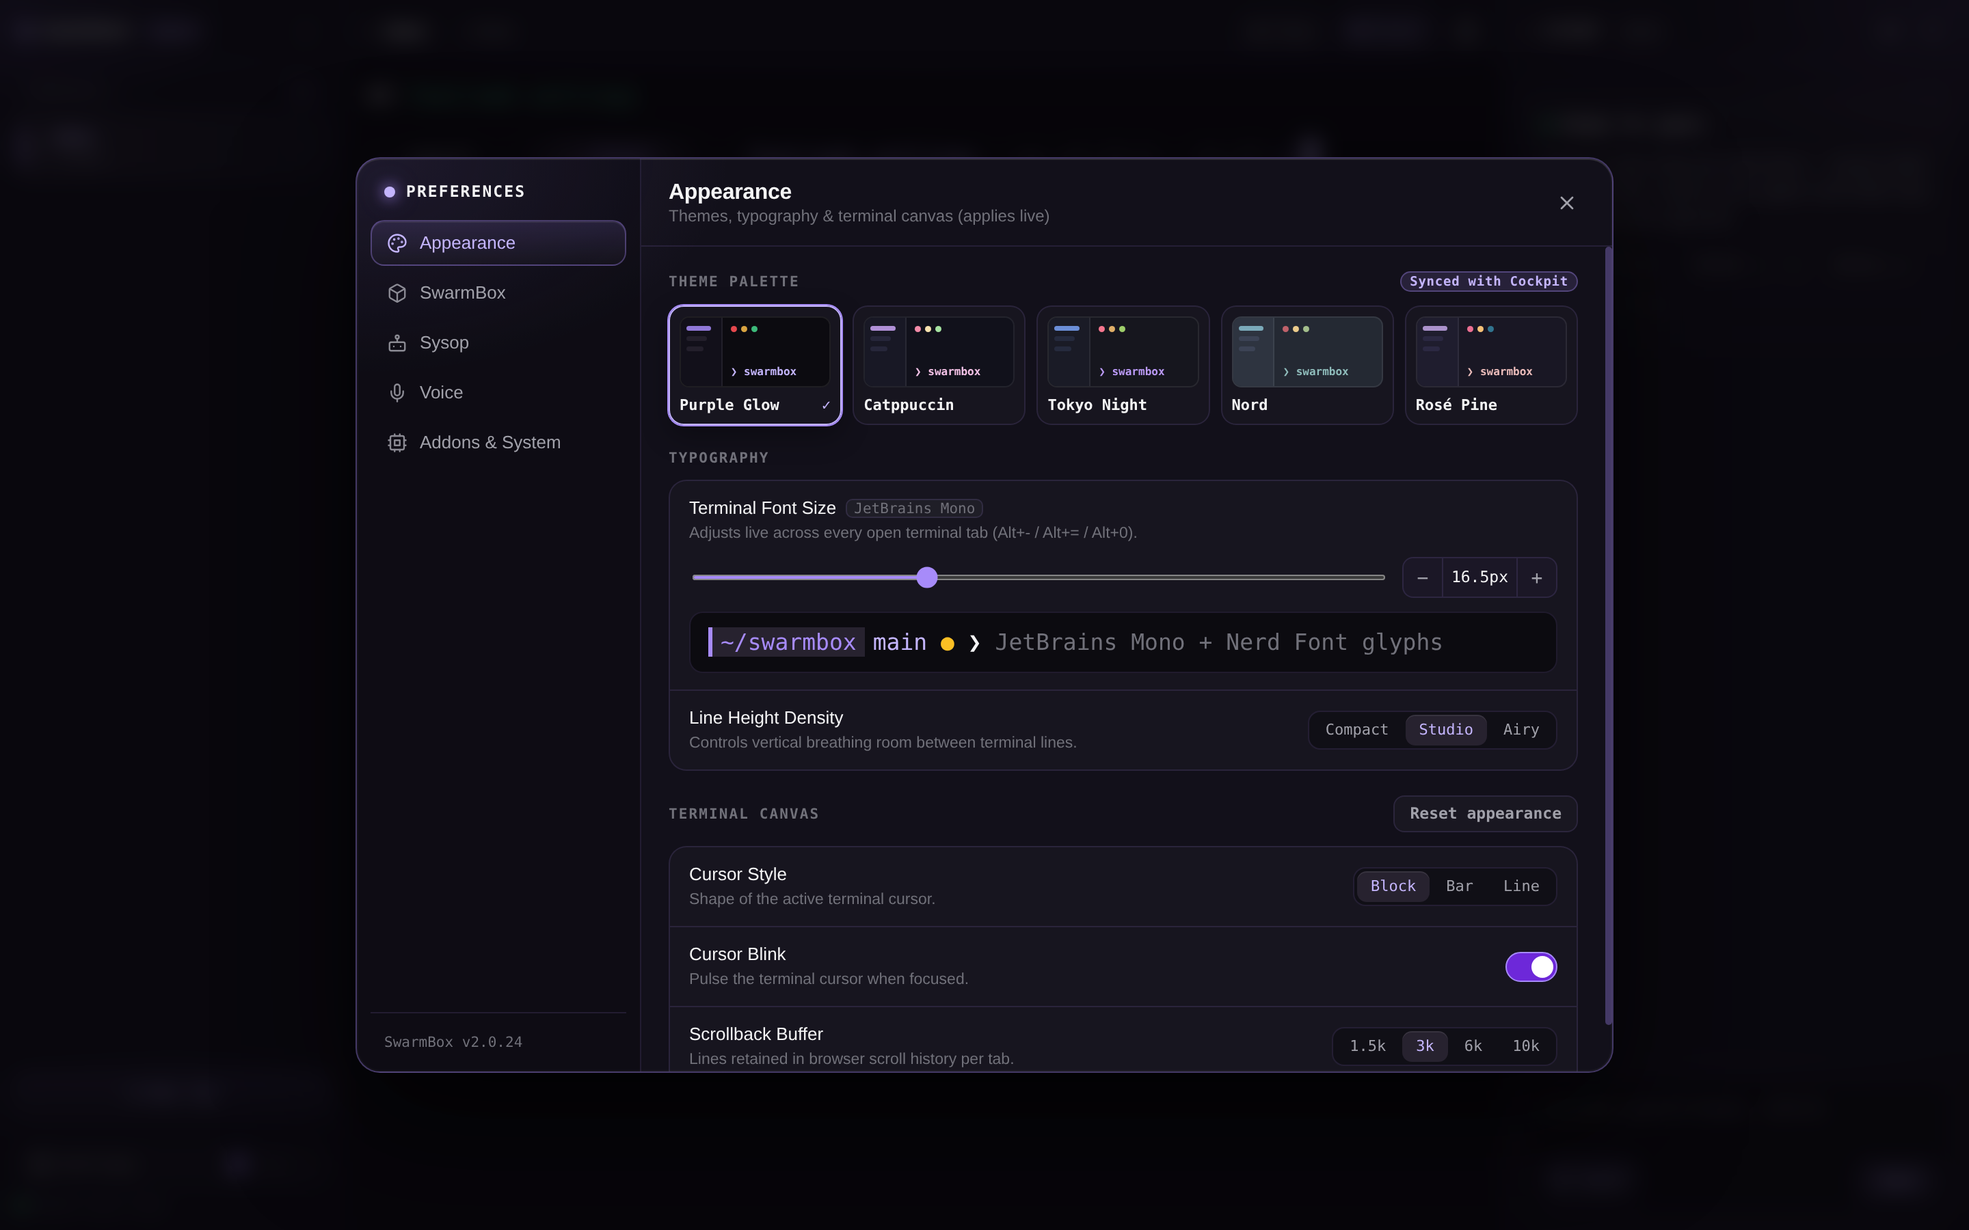
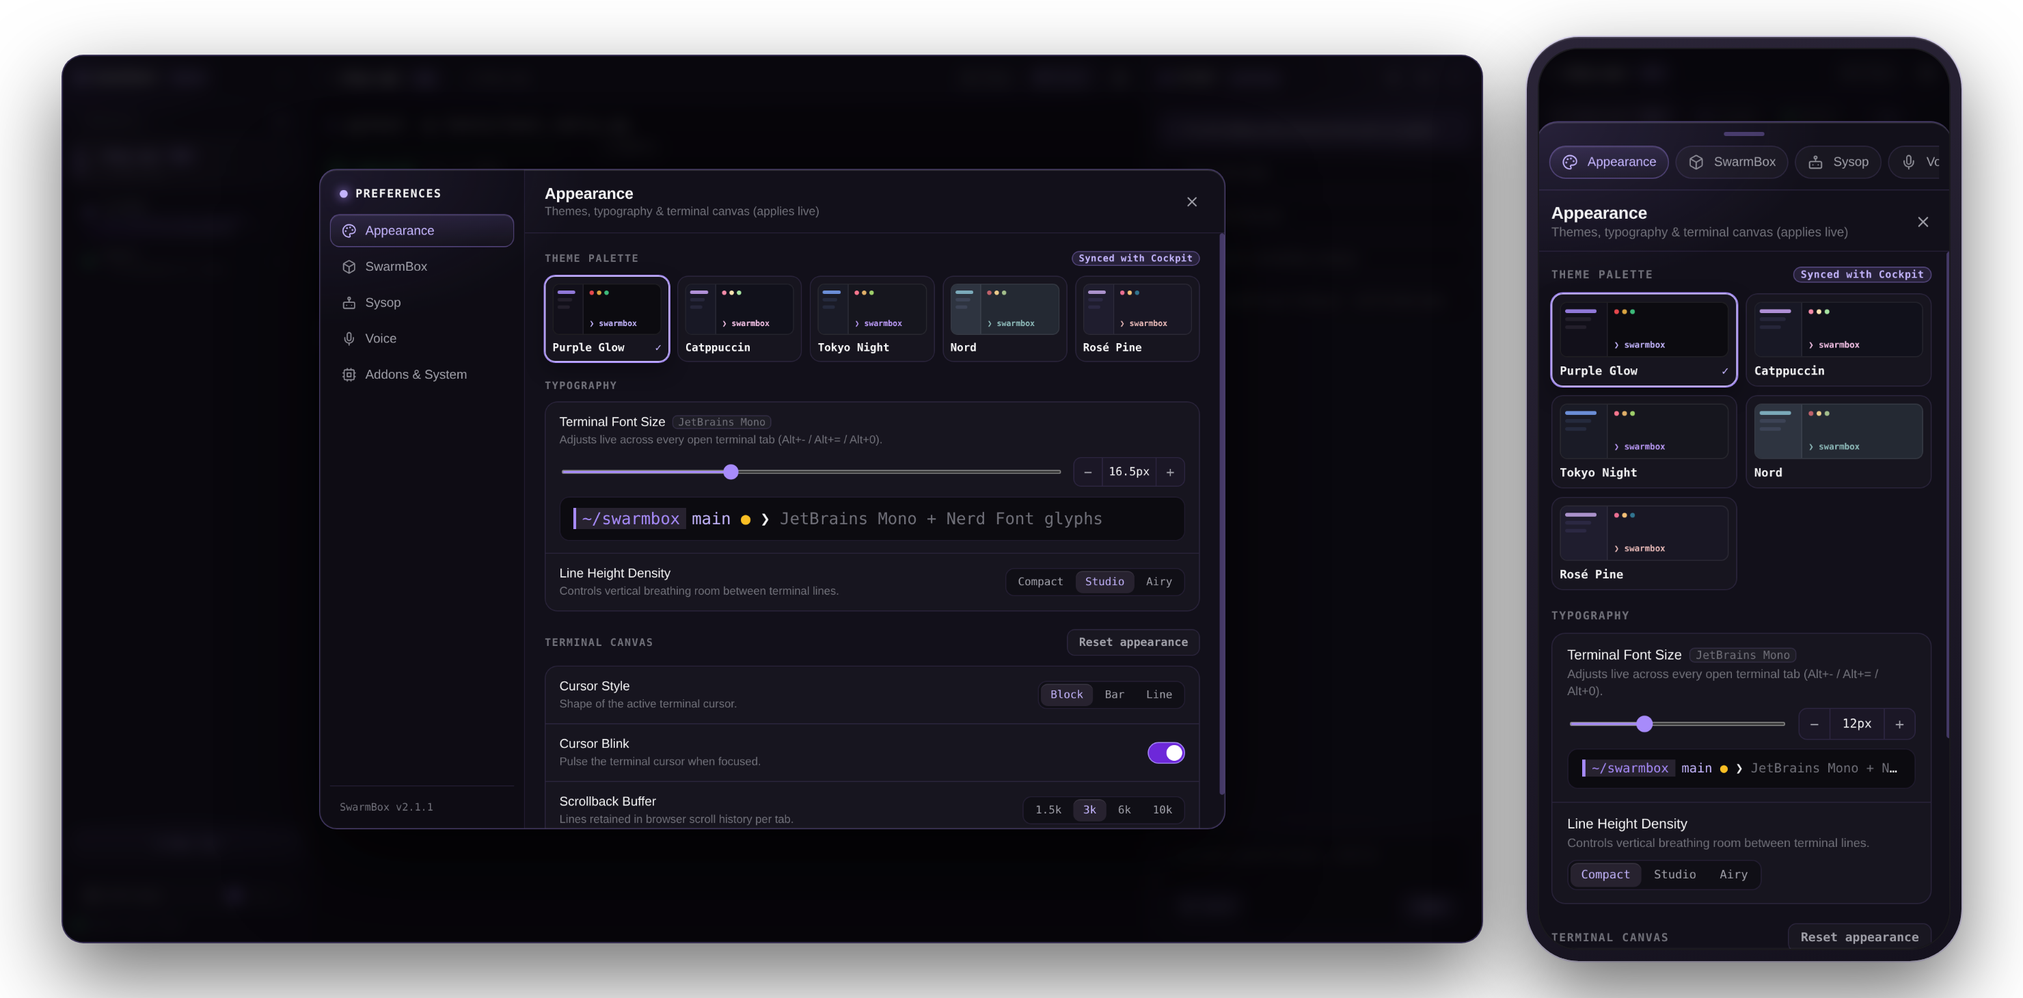
docs: pixel-perfect README redesign with fresh v2.1.1 Web Studio & Mobile showcases

diff --git a/README.md b/README.md
@@ -1,13 +1,20 @@
+<div align="center">
+
 # SwarmBox
 
-<p align="center">
-  <strong>Give your AI coding agents a persistent Podman box of their own — and operate them from a native Web Studio, your phone, or SSH.</strong>
+**Give your AI coding agents a persistent Podman box of their own —<br>operated from a native Web Studio, your phone, or SSH.**
+
+<p>
+  <a href="https://github.com/feroult/swarmbox/releases/latest"><img src="https://img.shields.io/github/v/release/feroult/swarmbox?color=7c3aed&labelColor=1b1726&style=flat-square" alt="Latest release"></a>
+  <a href="#security"><img src="https://img.shields.io/badge/Podman-4.3%2B%20rootless-6d28d9?labelColor=1b1726&style=flat-square" alt="Podman 4.3+ rootless"></a>
+  <a href="#security"><img src="https://img.shields.io/badge/telemetry-zero-3dba7a?labelColor=1b1726&style=flat-square" alt="Zero telemetry"></a>
+  <a href="LICENSE"><img src="https://img.shields.io/badge/license-Apache--2.0-a78bfa?labelColor=1b1726&style=flat-square" alt="Apache-2.0"></a>
 </p>
 
-<p align="center">
+<p>
   <a href="#quick-start">Quick start</a> ·
-  <a href="#herdr-web-studio--mobile">Web Studio &amp; Mobile</a> ·
-  <a href="#sysop--voice">Sysop &amp; Voice</a> ·
+  <a href="#web-studio--settings">Web Studio &amp; Settings</a> ·
+  <a href="#mobile-sysop--voice">Mobile, Sysop &amp; Voice</a> ·
   <a href="#agents-addons--base-image">Addons</a> ·
   <a href="#remote-access">Remote access</a> ·
   <a href="#everyday-commands">Commands</a> ·
@@ -15,11 +22,19 @@
   <a href="#documentation">Docs</a>
 </p>
 
-<p align="center">
-  <img src="docs/img/swarmbox-herdr-desktop.png" alt="SwarmBox Herdr Web Studio showing JetBrains Mono + Nerd Font, live OSC 7501 working progress bar in the sidebar, Purple Glow Starship prompt, and docked Sysop panel" width="800">
-</p>
+<br>
 
-Run **Claude Code**, **Antigravity CLI (`agy`)**, **OpenCode**, or **Gemini CLI** in auto-approve mode inside a rootless Podman container with `sudo`, nested rootless Podman, and headless Chromium + `chrome-devtools-mcp`. Your projects, logins, SSH keys, and addons persist in one host folder (`~/swarmbox`) across resets and upgrades — with zero telemetry and instant access from desktop, browser, or phone.
+<img src="docs/img/swarmbox-herdr-desktop.png" alt="SwarmBox Herdr Web Studio — 3-pane browser workspace with JetBrains Mono + Nerd Font, live OSC 7501 agent status pills, inline progress bar, Purple Glow Starship prompt, Settings launcher, and docked Sysop drawer" width="880">
+
+</div>
+
+<br>
+
+| Persistent Sandbox | Native Web Studio &amp; Mobile | Sysop Operator &amp; Local Voice |
+| :--- | :--- | :--- |
+| Run **Claude Code**, **Antigravity (`agy`)**, **OpenCode**, or **Gemini CLI** in auto-approve mode with `sudo`, nested rootless Podman, and headless Chromium — with projects, logins, SSH keys, and addons persisted in one host folder (`~/swarmbox`). | Live per-tab terminals, 5 synced themes, bundled **JetBrains Mono + Nerd Font**, studio **Settings** (`Alt+,`), smart wrapped-line copy, instant bracketed paste, and a 3-pane 24-bit **Terminal Cockpit** over SSH. | Type or speak a goal from desktop or phone. **Sysop** reads your tabs, routes to the active agent, and pauses risky actions behind one-tap **Allow / Cancel** cards — backed by local `whisper.cpp` speech-to-text. |
+
+---
 
 ## Quick start
 
@@ -31,71 +46,70 @@ swarmbox          # pulls the image, creates the box, and opens a shell (shortcu
 claude            # inside the box: installs Claude Code on first use and runs in auto-approve mode
 ```
 
-- **Enable Herdr Web Studio & Terminal Cockpit:** `tmux` + `ttyd` is the default mux; opt into `herdr` any time with `swarmbox config set MUX herdr && swarmbox reset` (switch back with `MUX tmux`).
-- **Open the Web UI or another tab:** run `swarmbox url` and visit `http://127.0.0.1:7681`, or run `swarmbox` again to open another window in the same live session.
-- **Other agents or API keys:** pass `--with antigravity` (`agy`) or `--with opencode`, install later with `swarmbox addon install <name>`, or pass a host key with `export ANTHROPIC_API_KEY=...` then `swarmbox env add ANTHROPIC_API_KEY && swarmbox reset`.
+- **Switch to Herdr Web Studio &amp; Terminal Cockpit:** `tmux` + `ttyd` is the default mux; opt into `herdr` any time with `swarmbox config set MUX herdr && swarmbox reset` (revert anytime with `MUX tmux`).
+- **Open the Web Studio:** run `swarmbox url` and visit `http://127.0.0.1:7681`, or run `swarmbox` again in another terminal to share the live session.
+- **Other agents &amp; API keys:** pass `--with antigravity` (`agy`) or `--with opencode`, install later with `swarmbox addon install <name>`, or forward a host key via `export ANTHROPIC_API_KEY=...` and `swarmbox env add ANTHROPIC_API_KEY && swarmbox reset`.
 
-## Herdr Web Studio & Mobile
+---
 
-Opt into `MUX=herdr` for a cohesive browser studio, phone interface, and 24-bit SSH Terminal Cockpit — all attached to the same live `herdr-core` session with zero extra host installs.
+## Web Studio & Settings
 
-```bash
-swarmbox config set MUX herdr
-swarmbox reset
-swarmbox          # opens the 3-pane Terminal Cockpit (SWARMBOX_HERDR_RAW=1 for raw attach)
-```
+Opt into `MUX=herdr` for a cohesive browser studio, responsive phone UI, and matching 24-bit SSH Terminal Cockpit — all attached to the same live `herdr-core` daemon with zero extra host installs.
 
 <p align="center">
-  <img src="docs/img/swarmbox-web-settings.png" alt="SwarmBox Herdr Web Studio Settings dialog on desktop showing 5 synced themes, live JetBrains Mono + Nerd Font preview, line-height density, cursor, and scrollback controls" height="340">
-  &nbsp;
-  <img src="docs/img/swarmbox-web-settings-mobile.png" alt="SwarmBox Herdr Web Studio Settings responsive mobile bottom sheet with horizontal section pills and live appearance controls" height="340">
+  <img src="docs/img/swarmbox-web-settings.png" alt="SwarmBox Studio Settings on desktop and mobile — 5 visual theme cards synced with Terminal Cockpit, JetBrains Mono font slider with live preview, line-height density, cursor, scrollback, and 5-section navigation" width="880">
 </p>
 
-- **Studio Settings (`Alt+,`):** Desktop dialog with a 5-section rail and a responsive mobile bottom sheet with horizontal pills — **Appearance** (5 visual mini-terminal theme cards synced live with Terminal Cockpit, font-size slider/stepper, `Compact` / `Studio` / `Airy` line height, cursor style/blink, `1.5k`–`10k` scrollback), **SwarmBox**, **Sysop** (3-card autonomy policy + live browser TTS toggle), **Voice**, and **Addons & System** (one-click live addon install, configured MCP servers, Git SSH public key copy, shortcuts cheat sheet) — complete with a sticky host-apply bar (`swarmbox config set ... && swarmbox reset`) whenever host-managed keys change.
-- **5 synchronized themes & bundled typography:** **Purple Glow** (default), Catppuccin Mocha, Tokyo Night, Nord, and Rosé Pine, paired with self-hosted **JetBrains Mono + Nerd Font** (zero CDN) and a redesigned Purple Glow Starship prompt.
-- **Live OSC 7501 agent status:** Real-time working, blocked, and done status pills with inline progress bars in the sidebar, plus native `herdr-app` Agent Inbox integration for Sysop (`swarmbox.role=sysop`, automatically filtered out of your tab list).
-- **Zero-friction terminal ergonomics:** Per-tab live `xterm.js` sessions with server-coalesced **zero-scroll hydration** (instant tab switching with preserved scrollback and floating "Jump to live" pill), **smart wrapped-line copy** (rejoins soft-wrapped and bordered agent commands while preserving multi-line scripts), **instant bracketed paste** (`Ctrl+V` / `Ctrl+Shift+V` via native `term.paste()` with zero double-paste or slow TUI redraws), and automatic WebSocket PTY recovery.
-- **Mobile-first controls & keyboard parity:** iOS-calibrated momentum inertia touch scroll, compact touch-key strip (`Esc`, `Tab`, `^C`, arrows), pull-up Sysop drawer, and full desktop shortcuts (`Alt+1..9`, `Alt+N`, `Alt+,`, `Alt+B`, `Alt+S`, `Alt+G`, `Alt+T`, `Alt+-/=/0`).
-- **Terminal Cockpit (`sx` / `swarmbox`):** 24-bit TrueColor 3-pane terminal UI mirroring the Web Studio over SSH — exact-width sidebar with OSC 7501 dots, inset PTY, right Sysop feed with `Ctrl+A g` Goal Composer, `Ctrl+A ?` shortcut modal, and SGR mouse support ([docs/herdr-cockpit-design.md](docs/herdr-cockpit-design.md), [docs/mux-architecture.md](docs/mux-architecture.md)).
+| Capability | What you get out of the box |
+| :--- | :--- |
+| **Studio Settings (`Alt+,`)** | Desktop dialog + mobile bottom sheet across 5 live sections — **Appearance**, **SwarmBox**, **Sysop** (3-card autonomy policy + live TTS), **Voice**, and **Addons &amp; System** (one-click live addon install, MCP servers, Git SSH public key copy, shortcuts). Editing host-managed keys stages a sticky **Apply on host** bar (`swarmbox config set ... && swarmbox reset`) with one-click copy. |
+| **5 Synced Themes &amp; Offline Fonts** | **Purple Glow** (default), **Catppuccin Mocha**, **Tokyo Night**, **Nord**, and **Rosé Pine** — synchronized across Web UI, Terminal Cockpit, and `herdr.toml` — paired with self-hosted **JetBrains Mono + Nerd Font** (zero CDN) and a Purple Glow Starship prompt. |
+| **Live OSC 7501 Agent Status** | Real-time working, blocked, and done status pills with inline progress bars in the sidebar, plus native `herdr-app` Agent Inbox integration for Sysop (`swarmbox.role=sysop`, filtered out of your tab list). |
+| **Smart Copy &amp; Instant Paste** | **Copy** (`Ctrl+C` / `Cmd+C` / context menu) inspects the terminal buffer to rejoin soft-wrapped, shaded, or bordered AI commands into one clean line while preserving real multi-line scripts. **Paste** (`Ctrl+V` / `Ctrl+Shift+V`) uses native Bracketed Paste (`\x1b[200~...\x1b[201~`) with zero double-paste or slow character-by-character TUI redraws. |
+| **Zero-Scroll Hydration &amp; Cockpit** | Per-tab live `xterm.js` sessions open already anchored at the bottom, switch in 0 ms preserving scrollback (with a floating **Jump to live** pill), auto-heal WebSockets on wake, and match the 3-pane SSH **Terminal Cockpit** (`Alt+1..9`, `Alt+N`, `Alt+B`, `Alt+S`, `Alt+G`, `Alt+T`, `Alt+,`, `Alt+-/=/0`). |
 
-## Sysop & Voice
+---
 
-Direct your box in plain words — typed or spoken — from desktop or phone, with host-enforced guardrails over anything risky.
+## Mobile, Sysop & Voice
+
+Operate long-running agents comfortably from your phone with iOS-calibrated momentum touch scrolling, a floating glass dock, one-tap approvals, and local offline Whisper dictation.
 
 <p align="center">
-  <img src="docs/img/swarmbox-mobile.png" alt="SwarmBox on mobile: left phone shows the expanded Sysop drawer, touch-key strip, and Whisper microphone; right phone shows the one-tap Allow and Cancel approval card" width="760">
+  <img src="docs/img/swarmbox-mobile.png" alt="SwarmBox Herdr Web Studio on mobile — left phone shows live agent tabs, 1-line Starship prompt, floating ALLOW? approval card, and glass dock; right phone shows the Sysop bottom sheet with countdown bar, live steps, and voice composer" width="740">
 </p>
 
-- **Autonomous tab operator (`sysop`):** Inspects your live tabs through `swarmbox-tabs` (secrets redacted from every screen read), remembers recent goals so follow-ups land cleanly, routes prompts to the right agent, and never steals focus from what you are typing.
-- **Host-side risk policy:** Every command and keystroke is rated outside the model. In default `auto` mode, safe actions run immediately, medium-risk actions show a 4-second veto countdown, and high-risk actions — plus any key while an agent dialog is open — wait for your explicit **Allow** (`Ctrl+A a`, panel click, or mobile thumb button). Switch to `confirm-risky` or `confirm-all` any time, halt everything with `Ctrl+A X`, and review every step in the append-only audit log.
-- **Local Whisper voice (`voice`):** `whisper.cpp` runs locally inside the box (only audio crosses the tunnel), powering the push-to-talk microphone across desktop and mobile.
-
 ```bash
-swarmbox addon install sysop        # autonomous tab operator + docked panel
-swarmbox addon install voice        # local whisper.cpp speech-to-text + web mic
+swarmbox addon install sysop      # autonomous operator + approval cards
+swarmbox addon install voice      # local whisper.cpp speech-to-text microphone
 ```
 
-Hold the microphone button in the Web UI, press `Alt+G` / `Ctrl+A g`, or run `swarmbox-sysop goal "run the tests in tab 2"`. Full guides: [docs/sysop.md](docs/sysop.md) and [docs/voice.md](docs/voice.md).
+- **Context-aware operator:** Sysop remembers recent goals, infers the active agent tab, queues messages when an agent is working, and keeps a full audit log.
+- **Host-enforced safety policy:** Low-risk actions run directly under `auto`; medium-risk actions pause on a veto countdown; high-risk commands and open agent dialogs always wait for **Allow** (`confirm-risky` and `confirm-all` tighten further via **Settings → Sysop**).
+- **Private local voice:** Hold the violet mic button to transcribe through local `whisper.cpp` straight to Sysop — audio never leaves your machine, and `swarmbox-voice say "..."` works from any shell ([docs/sysop.md](docs/sysop.md), [docs/voice.md](docs/voice.md)).
+
+---
 
 ## Agents, Addons & Base Image
 
-The base image stays lean and neutral; every addon installs on demand into your workspace (`~/.local/share/swarmbox/addons/`) on first command or via `swarmbox addon install <name>` (or one-click in Web Studio Settings).
+Addons install on demand inside your persistent workspace — keeping the base image lean while preserving versions across resets and upgrades.
 
-| Addon | Commands | What is pre-configured |
-|---|---|---|
-| **`claude`** | `claude` | Claude Code in auto-approve mode wired to `chrome-devtools-mcp`; self-updating (`claude update`) |
-| **`antigravity`** | `agy` | Antigravity CLI (Google's coding agent, successor to Gemini CLI) in auto-approve mode with Purple Glow status line; self-updating (`agy update`) |
-| **`opencode`** | `opencode` | OpenCode in auto-approve mode, mirrored MCP config, and optional `LOCAL_LLM_*` endpoint setup |
-| **`gemini`** | `gemini` | Gemini CLI in `--yolo` mode *(deprecated: paid API key only; use `antigravity`)* |
-| **`sysop`** | `swarmbox-sysop` | Tab-operating agent loop, docked panel, host risk policy, approvals, memory, and audit log |
-| **`voice`** | `swarmbox-voice` | Local `whisper.cpp` + multilingual Whisper model + `/voice/` proxy and microphone button |
-| **`go`** | `go`, `gofmt` | Pinned official Go release (SHA-256 verified) with workspace `GOPATH` |
+| Addon | Commands | Notes |
+| :--- | :--- | :--- |
+| **`claude`** | `claude` | Claude Code (`--dangerously-skip-permissions` interactive default) + Purple Glow statusline |
+| **`antigravity`** | `agy` | Google Antigravity CLI (`--dangerously-skip-permissions` interactive default) + isolated statusline |
+| **`opencode`** | `opencode` | Open-source terminal coding agent |
+| **`gemini`** | `gemini` | Gemini CLI *(deprecated; paid API key only — use `antigravity`)* |
+| **`sysop`** | `swarmbox-sysop` | Autonomous goal operator, live activity panel, and risk-gated approval host |
+| **`voice`** | `swarmbox-voice` | Local `whisper.cpp` speech-to-text web front and goal publisher |
+| **`go`** | `go`, `gofmt` | Pinned Go toolchain (SHA-256 verified) with workspace `GOPATH` |
 | **`gcloud`** | `gcloud`, `gsutil`, `bq` | Pinned Google Cloud CLI (SHA-256 verified) |
 | **`clasp`** | `clasp` | Pinned Google Apps Script CLI with OAuth callback port (`43323`) published |
 | **`poetry`** | `poetry` | Pinned Python dependency manager installed isolated in the workspace |
 
-- **Default agent shortcut & custom addons:** run `yolo` inside the box to launch your default agent (`YOLO=0` disables auto-approve); scaffold workspace addons with `swarmbox addon new NAME`, check health with `swarmbox addon doctor`, and roll back with `swarmbox addon use NAME VERSION`.
-- **Always ready in the base image:** Node 24, Python 3 + `uv`, nested rootless Podman (`netavark` + `aardvark-dns`, [docs/nested-podman.md](docs/nested-podman.md)), pinned headless Chromium + `chrome-devtools-mcp`, both mux backends (`tmux 3.7c` + `ttyd` default; `herdr-core` + Herdr Web Studio & Terminal Cockpit opt-in), Starship prompt, `swarmbox-bus`, `swarmbox-tabs`, `git`, `jq`, `sqlite3`, and `build-essential`.
+- **Agent shortcut &amp; custom addons:** Run `yolo` inside the box to launch your default agent (`YOLO=0` disables auto-approve); scaffold custom workspace addons with `swarmbox addon new NAME`, inspect with `swarmbox addon doctor`, and roll back with `swarmbox addon use NAME VERSION`.
+- **Included in the base image:** Node 24, Python 3 + `uv`, nested rootless Podman (`netavark` + `aardvark-dns`, [docs/nested-podman.md](docs/nested-podman.md)), pinned headless Chromium + `chrome-devtools-mcp`, both mux backends (`tmux 3.7c` + `ttyd` default; `herdr-core` + Herdr Web Studio &amp; Terminal Cockpit opt-in), Starship prompt, `swarmbox-bus`, `swarmbox-tabs`, `git`, `jq`, `sqlite3`, and `build-essential`.
+
+---
 
 ## Remote access
 
@@ -108,6 +122,8 @@ swarmbox url
 
 `cloudflared` runs in a separate container **on your host**, never inside the box — no open router ports, no public IP, and no tunnel secrets inside the agent's environment ([docs/cloudflare.md](docs/cloudflare.md), [docs/web-terminal.md](docs/web-terminal.md)).
 
+---
+
 ## Everyday commands
 
 ```bash
@@ -115,7 +131,7 @@ swarmbox                        # attach to the shared session (starts the box i
 swarmbox --plain                # open a plain bash shell without a multiplexer
 swarmbox url                    # print local and remote web terminal addresses
 swarmbox config list            # show all settings and where each comes from
-swarmbox config set MUX herdr   # switch to the Herdr Web Studio & Terminal Cockpit backend
+swarmbox config set MUX herdr   # enable Herdr Web Studio & Terminal Cockpit
 swarmbox env add NAME           # pass a host environment variable into the box
 swarmbox addon list             # show available and installed addons
 swarmbox addon install NAME     # install an addon (e.g. sysop, voice, antigravity, go)
@@ -126,22 +142,26 @@ swarmbox pubkey                 # print the box's Git SSH public key
 swarmbox remote setup           # set up Cloudflare Tunnel + email-code Access
 ```
 
+---
+
 ## Security
 
 SwarmBox runs in a rootless Podman container, which is **not complete isolation**: it shares the kernel with your host and carries the known limits of containers (and nested Podman requires `/dev/net/tun` and an unmasked `/proc`). It confines agent mistakes to one workspace folder (`~/swarmbox`), keeps your host Podman socket and Cloudflare credentials outside the box, binds the web gateway to `127.0.0.1`, and makes no telemetry calls. For untrusted code or a stronger boundary, run SwarmBox inside a virtual machine ([docs/microvm.md](docs/microvm.md)). More in [SECURITY.md](SECURITY.md) and [docs/security-review.md](docs/security-review.md).
 
+---
+
 ## Documentation
 
 | Guide | What it covers |
-|---|---|
+| :--- | :--- |
 | [Web terminal](docs/web-terminal.md) | Browser shortcuts, clipboard sync, mobile controls strip, font sizing, and customization |
-| [Herdr & Cockpit](docs/herdr-cockpit-design.md) · [Mux architecture](docs/mux-architecture.md) | Opt-in `herdr` backend, Terminal Cockpit, Herdr Web Studio, and native OSC 7501 Sysop bridge |
+| [Herdr &amp; Cockpit](docs/herdr-cockpit-design.md) · [Mux architecture](docs/mux-architecture.md) | Opt-in `herdr` backend, Terminal Cockpit, Herdr Web Studio, and native OSC 7501 Sysop bridge |
 | [Sysop](docs/sysop.md) | Autonomous tab operator, MCP brain presets/templates, risk policy, panel modes, and audit log |
 | [Voice control](docs/voice.md) | Local Whisper setup, language/model settings, `/voice/` proxy, and troubleshooting |
 | [Remote access](docs/cloudflare.md) | Cloudflare Tunnel + Access setup, token handling, and multi-box hostnames |
 | [Nested Podman](docs/nested-podman.md) | Running containers inside the box, host `podman -c` connection, and port forwarding |
 | [Theme](docs/theme.md) | The Purple Glow palette for Windows Terminal, Ghostty, and Claude Code + statusline |
-| [Addons & Bus](docs/addons-design.md) | Addon manifest model, `swarmbox-bus` pub/sub, and `swarmbox-tabs` capability |
+| [Addons &amp; Bus](docs/addons-design.md) | Addon manifest model, `swarmbox-bus` pub/sub, and `swarmbox-tabs` capability |
 | [Architecture](docs/design.md) | Complete system design, configuration reference, and design decisions |
 | [MicroVM](docs/microvm.md) · [Uninstall](docs/uninstall.md) | Running inside a VM boundary; clean removal steps |
 
